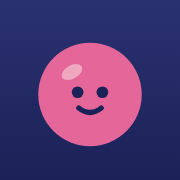
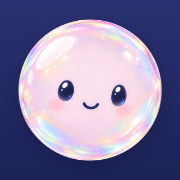
Meet the new Boop: iridescent bubble mascot across the site
- Hero Boop and closing Boop are the new bubble (leans toward the cursor,
  still squishes, jumps, talks and replays the arrival)
- Wordmarks, app icon, Lock Screen icon, favicon, touch icon, OG image and
  the four dawn/day/dusk/night icons regenerated with the bubble
- Bubble gets a soft pink fill behind the glass so it reads on navy
- Asset files renamed -v2 so image caches can't serve the old blob

Claude-Session: https://claude.ai/code/session_01JCJ9Cii79kSKS6b9oMPbWV

diff --git a/app/site/chrome.css b/app/site/chrome.css
@@ -4344,7 +4344,7 @@ button.tierCta, button.priceNavCta {
   margin: 0 auto 18px;
   width: 96px;
 }
-.finalMascot svg { width: 96px; height: 96px; animation: boopHop 2.8s cubic-bezier(.3,.7,.4,1.4) infinite; transform-origin: 50% 100%; filter: drop-shadow(0 12px 26px rgba(217, 120, 158, .45)); }
+.finalMascot .finalBoopImg { width: 104px; height: 104px; animation: boopHop 2.8s cubic-bezier(.3,.7,.4,1.4) infinite; transform-origin: 50% 100%; filter: drop-shadow(0 12px 26px rgba(217, 120, 158, .45)); }
 .finalBubble { background: #D9789E; }
 
 /* Closing sky: more colour behind Boop */
@@ -4379,17 +4379,19 @@ button.tierCta, button.priceNavCta {
   width: 100%;
   transform-origin: 50% 100%;
   animation: boopBounce 1.6s cubic-bezier(.3,.7,.4,1) infinite;
-  filter: drop-shadow(0 12px 18px rgba(229, 103, 154, .32));
+  filter: drop-shadow(0 14px 22px rgba(229, 103, 154, .30)) drop-shadow(0 0 18px rgba(155, 148, 194, .25));
   transition: transform .3s cubic-bezier(.3,.7,.4,1.5);
 }
-.boopBody svg { display: block; width: 100%; height: auto; overflow: visible; }
-.boopEyes { transform: translate(var(--ex, 0px), var(--ey, 0px)); transition: transform .12s linear; }
-.boopCheek { opacity: 0; transition: opacity .25s; }
+.boopImg {
+  display: block; width: 100%; height: auto;
+  transform: translate(var(--ex, 0px), var(--ey, 0px)) rotate(var(--tilt, 0deg));
+  transition: transform .18s linear;
+}
 .boopBuddy:hover .boopBody { animation: boopSquish .5s cubic-bezier(.3,.7,.4,1.5) both; }
-.boopBuddy:hover .boopCheek, .boopJump .boopCheek { opacity: .9; }
 .boopBody.boopJump { animation: boopJump .9s cubic-bezier(.3,.7,.4,1.4) both; }
 .boopBubble {
   position: relative;
+  z-index: 2;
   white-space: nowrap;
   font-family: var(--font-display);
   font-weight: 700;
@@ -4398,7 +4400,7 @@ button.tierCta, button.priceNavCta {
   background: #E5679A;
   padding: 6px 13px 7px;
   border-radius: 999px;
-  margin-bottom: 10px;
+  margin-bottom: 18px;
   box-shadow: 0 8px 20px rgba(229, 103, 154, .35);
   animation: bubbleIn .55s cubic-bezier(.3,.7,.4,1.5) both, bubbleBob 3.4s ease-in-out .6s infinite;
   transform-origin: 50% 100%;
@@ -4461,4 +4463,29 @@ button.tierCta, button.priceNavCta {
   .heroStage { padding-bottom: 150px; }
   .boopBuddy { right: auto; left: 50%; bottom: 0; width: 92px; margin-left: -46px; }
   .boopBubble { font-size: .9rem; }
+}
+
+/* Closing Boop's speech bubble */
+.finalBubble {
+  position: relative;
+  z-index: 2;
+  font-family: var(--font-display);
+  font-weight: 700;
+  font-size: 1.05rem;
+  color: #FFFFFF;
+  background: #D9789E;
+  padding: 6px 14px 7px;
+  border-radius: 999px;
+  margin-bottom: 16px;
+  box-shadow: 0 8px 20px rgba(217, 120, 158, .35);
+  animation: bubblePop 2.8s cubic-bezier(.3,.7,.4,1.4) infinite;
+  transform-origin: 50% 100%;
+}
+.finalBubble::after {
+  content: "";
+  position: absolute;
+  left: 50%; bottom: -5px; margin-left: -6px;
+  width: 12px; height: 12px;
+  background: inherit; border-radius: 2px;
+  transform: rotate(45deg);
 }

diff --git a/app/layout.tsx b/app/layout.tsx
@@ -65,7 +65,7 @@ export const metadata: Metadata = {
     locale: "en_US",
     images: [
       {
-        url: "/boopthere-og.png",
+        url: "/boopthere-og.png?v=2",
         width: 1200,
         height: 630,
         alt: "BoopThere - location reminders for iPhone",
@@ -76,14 +76,14 @@ export const metadata: Metadata = {
     card: "summary_large_image",
     title: "BoopThere | Boop! There it is. Location reminders for iPhone",
     description: DEFAULT_DESCRIPTION,
-    images: ["/boopthere-og.png"],
+    images: ["/boopthere-og.png?v=2"],
   },
   icons: {
     icon: [
-      { url: "/favicon.ico?v=6", sizes: "64x64" },
-      { url: "/favicon.png?v=6", sizes: "64x64", type: "image/png" },
+      { url: "/favicon.ico?v=7", sizes: "64x64" },
+      { url: "/favicon.png?v=7", sizes: "64x64", type: "image/png" },
     ],
-    apple: [{ url: "/apple-touch-icon.png?v=6", sizes: "180x180", type: "image/png" }],
+    apple: [{ url: "/apple-touch-icon.png?v=7", sizes: "180x180", type: "image/png" }],
   },
   category: "Productivity",
   appleWebApp: {
@@ -104,8 +104,8 @@ const organizationJsonLd = {
   alternateName: ["Boop There", "Near"],
   legalName: "Rise-X, Inc.",
   url: SITE_URL,
-  logo: `${SITE_URL}/assets/brand/boop/boop-app-icon-1024.png`,
-  image: `${SITE_URL}/boopthere-og.png`,
+  logo: `${SITE_URL}/assets/brand/boop/boop-app-icon-1024-v2.png`,
+  image: `${SITE_URL}/boopthere-og.png?v=2`,
   email: "hello@nearesttask.com",
   description: "Location reminders for iPhone. Boop! There it is.",
   brand: {
@@ -126,7 +126,7 @@ const mobileAppJsonLd = {
   /* Telling search engines the app can be installed at a URL that 404s is
      worse than saying nothing. These come back when the listing is live. */
   ...(APP_IS_LIVE ? { downloadUrl: APP_STORE_URL, installUrl: APP_STORE_URL } : {}),
-  image: `${SITE_URL}/boopthere-og.png`,
+  image: `${SITE_URL}/boopthere-og.png?v=2`,
   isAccessibleForFree: true,
   description: DEFAULT_DESCRIPTION,
   publisher: {
@@ -192,9 +192,9 @@ export default function RootLayout({
   return (
     <html lang="en" className={`${dmSans.variable} ${fredoka.variable}`}>
       <head>
-        <link rel="icon" href="/favicon.ico?v=6" sizes="64x64" />
-        <link rel="icon" href="/favicon.png?v=6" type="image/png" sizes="64x64" />
-        <link rel="apple-touch-icon" href="/apple-touch-icon.png?v=6" sizes="180x180" />
+        <link rel="icon" href="/favicon.ico?v=7" sizes="64x64" />
+        <link rel="icon" href="/favicon.png?v=7" type="image/png" sizes="64x64" />
+        <link rel="apple-touch-icon" href="/apple-touch-icon.png?v=7" sizes="180x180" />
         <meta name="theme-color" content="#FAF6EF" />
         <script
           type="application/ld+json"

diff --git a/app/site/chrome.tsx b/app/site/chrome.tsx
@@ -11,8 +11,8 @@ import { useEffect, useRef, useState, useSyncExternalStore, type FormEvent } fro
 import { APP_IS_LIVE, APP_STORE_URL, NOTIFY_EVENT, openNotify } from "./launch"
 
 export { APP_STORE_URL }
-export const BRAND_ICON = "/assets/brand/boop/boop-app-icon-256.png"
-export const BRAND_WORDMARK = "/assets/brand/boop/boopthere-wordmark.png"
+export const BRAND_ICON = "/assets/brand/boop/boop-app-icon-256-v2.png"
+export const BRAND_WORDMARK = "/assets/brand/boop/boopthere-wordmark-v2.png"
 
 export function useReveal() {
   useEffect(() => {
@@ -241,7 +241,7 @@ export function TopNav({ home = false }: { home?: boolean }) {
     <header className={`nav ${lifted ? "navLifted" : ""}`}>
       <div className="navInner">
         <Link className="brand" href={home ? "#top" : "/"} aria-label="BoopThere, home">
-          <Image src={BRAND_WORDMARK} alt="BoopThere" className="brandLogo" width={1074} height={202} priority quality={100} />
+          <Image src={BRAND_WORDMARK} alt="BoopThere" className="brandLogo" width={1072} height={216} priority quality={100} />
         </Link>
         <nav className="navLinks" aria-label="Primary">
           <a className="navLink hideOnMobile" href={at("#how-it-works")}>How it works</a>
@@ -284,7 +284,7 @@ export function FinalCTA() {
       <div className="reveal finalInner">
         <div className="finalMascot" aria-hidden="true">
           <span className="finalBubble">Boop!</span>
-          <svg viewBox="0 0 160 160" aria-hidden="true"><circle cx="80" cy="84" r="58" fill="#E5679A" /><ellipse cx="60" cy="58" rx="13" ry="8" fill="#FAF6EF" opacity=".5" transform="rotate(-30 60 58)" /><circle cx="66" cy="82" r="6.5" fill="#1B2257" /><circle cx="94" cy="82" r="6.5" fill="#1B2257" /><path d="M68 100 Q80 109 92 100" stroke="#1B2257" strokeWidth="5.5" fill="none" strokeLinecap="round" /></svg>
+<Image src="/assets/brand/boop/boop-256.png" alt="" width={96} height={96} className="finalBoopImg" />
         </div>
         <div className={`finalArrival ${inView ? "finalArrivalIn" : ""}`} aria-hidden="true">
           <span className="finalArrivalRing" />
@@ -326,7 +326,7 @@ export function SiteFooter() {
     <footer className="footer">
       <div className="footerTop">
         <div className="footerBrand">
-          <Image src="/assets/brand/boop/boopthere-wordmark-cream.png" alt="BoopThere" className="footerLogo" width={1074} height={202} />
+          <Image src="/assets/brand/boop/boopthere-wordmark-cream-v2.png" alt="BoopThere" className="footerLogo" width={1072} height={216} />
           <p className="footerTag">Boop! There it is.</p>
         </div>
         <nav className="footerNav" aria-label="Footer">

diff --git a/app/HomePageClient.tsx b/app/HomePageClient.tsx
@@ -178,8 +178,10 @@ function Hero() {
         const dy = posRef.current.y + hr.top - (br.top + br.height / 2)
         const d = Math.hypot(dx, dy) || 1
         const k = Math.min(1, d / 220)
-        b.style.setProperty("--ex", `${(dx / d) * 4.5 * k}px`)
-        b.style.setProperty("--ey", `${(dy / d) * 4 * k}px`)
+        /* He leans toward the cursor. */
+        b.style.setProperty("--ex", `${(dx / d) * 7 * k}px`)
+        b.style.setProperty("--ey", `${(dy / d) * 5 * k}px`)
+        b.style.setProperty("--tilt", `${(dx / d) * 9 * k}deg`)
       }
     })
   }
@@ -227,8 +229,8 @@ function Hero() {
 }
 
 /* ── Boop, live ─────────────────────────────────────────────────────
-   Sits on the arrival notification. Eyes follow the cursor (set by the
-   hero's mousemove), he squishes on hover, and a tap makes him jump, say
+   Bounces beside the phone. Leans toward the cursor (set by the hero's
+   mousemove), he squishes on hover, and a tap makes him jump, say
    something, and replay the arrival. A real button, so it works by
    keyboard too. */
 
@@ -262,17 +264,15 @@ const BoopBuddy = forwardRef<HTMLButtonElement, { onBoop: () => void }>(function
     >
       <span className="boopBubble" key={`b${hops}`}>{hops === 0 ? "Tap me!" : BOOP_LINES[line]}</span>
       <span className={`boopBody ${hops > 0 ? "boopJump" : ""}`} key={`j${hops}`}>
-        <svg viewBox="0 0 160 160" aria-hidden="true">
-          <circle cx="80" cy="84" r="58" fill="#E5679A" />
-          <ellipse cx="60" cy="58" rx="13" ry="8" fill="#FAF6EF" opacity=".5" transform="rotate(-30 60 58)" />
-          <g className="boopEyes">
-            <circle cx="66" cy="82" r="6.5" fill="#1B2257" />
-            <circle cx="94" cy="82" r="6.5" fill="#1B2257" />
-          </g>
-          <ellipse className="boopCheek" cx="52" cy="98" rx="7" ry="4" fill="#F59BBE" />
-          <ellipse className="boopCheek" cx="108" cy="98" rx="7" ry="4" fill="#F59BBE" />
-          <path className="boopMouth" d="M68 100 Q80 109 92 100" stroke="#1B2257" strokeWidth="5.5" fill="none" strokeLinecap="round" />
-        </svg>
+        <Image
+          src="/assets/brand/boop/boop-512.png"
+          alt=""
+          width={512}
+          height={512}
+          className="boopImg"
+          sizes="(max-width: 860px) 92px, 124px"
+          priority
+        />
       </span>
       <span className="boopShadow" aria-hidden="true" />
     </button>

diff --git a/app/pricing/page.tsx b/app/pricing/page.tsx
@@ -8,7 +8,7 @@ import Link from "next/link"
 import { AppShot, DownloadCta } from "../site/chrome"
 import { featuresFor } from "../site/features"
 
-const BRAND_WORDMARK = "/assets/brand/boop/boopthere-wordmark.png"
+const BRAND_WORDMARK = "/assets/brand/boop/boopthere-wordmark-v2.png"
 
 type Billing = "annual" | "monthly"
 
@@ -48,7 +48,7 @@ export default function PricingPage() {
         <nav className="priceNav">
           <div className="priceNavInner">
             <Link href="/" aria-label="BoopThere, home">
-              <Image src={BRAND_WORDMARK} alt="BoopThere" width={1074} height={202} className="priceNavLogo" />
+              <Image src={BRAND_WORDMARK} alt="BoopThere" width={1072} height={216} className="priceNavLogo" />
             </Link>
             <div className="priceNavLinks">
               <Link href="/#how-it-works" className="priceNavLink">How it works</Link>

diff --git a/app/features/page.tsx b/app/features/page.tsx
@@ -102,10 +102,10 @@ const mealNotes = [
 ]
 
 const ICON_VARIANTS = [
-  { name: "Dawn", src: "/assets/brand/boop/boop-icon-dawn-1024.png" },
-  { name: "Day", src: "/assets/brand/boop/boop-icon-day-1024.png" },
-  { name: "Dusk", src: "/assets/brand/boop/boop-icon-dusk-1024.png" },
-  { name: "Night", src: "/assets/brand/boop/boop-icon-night-1024.png" },
+  { name: "Dawn", src: "/assets/brand/boop/boop-icon-dawn-1024-v2.png" },
+  { name: "Day", src: "/assets/brand/boop/boop-icon-day-1024-v2.png" },
+  { name: "Dusk", src: "/assets/brand/boop/boop-icon-dusk-1024-v2.png" },
+  { name: "Night", src: "/assets/brand/boop/boop-icon-night-1024-v2.png" },
 ] as const
 
 /* The arrival this page's own example produces. The capture section hears

diff --git a/app/features/layout.tsx b/app/features/layout.tsx
@@ -15,7 +15,7 @@ export const metadata: Metadata = {
     type: "website",
     images: [
       {
-        url: "/boopthere-og.png",
+        url: "/boopthere-og.png?v=2",
         width: 1200,
         height: 630,
         alt: "Everything BoopThere does - location reminders, shared lists and Meal Plan",
@@ -27,7 +27,7 @@ export const metadata: Metadata = {
     title: "Everything BoopThere does | BoopThere",
     description:
       "Capture, placement, arrival - plus shared household lists, Meal Plan, Apple Watch and Siri. Everything BoopThere does, and nothing that asks you to organize it.",
-    images: ["/boopthere-og.png"],
+    images: ["/boopthere-og.png?v=2"],
   },
 }
 

diff --git a/app/pricing/layout.tsx b/app/pricing/layout.tsx
@@ -15,7 +15,7 @@ export const metadata: Metadata = {
     type: "website",
     images: [
       {
-        url: "/boopthere-og.png",
+        url: "/boopthere-og.png?v=2",
         width: 1200,
         height: 630,
         alt: "BoopThere pricing for Free and Pro plans",
@@ -27,7 +27,7 @@ export const metadata: Metadata = {
     title: "Pricing | BoopThere",
     description:
       "BoopThere's location reminders are free, always, and so is the grocery list. Pro adds unlimited AI meal plans, predictive restocks, and goal breakdowns. $12.99 a month or $109 a year.",
-    images: ["/boopthere-og.png"],
+    images: ["/boopthere-og.png?v=2"],
   },
 }
 

diff --git a/app/privacy/page.tsx b/app/privacy/page.tsx
@@ -5,7 +5,7 @@ import "./privacy.css"
 import Link from "next/link"
 import Image from "next/image"
 
-const BRAND_WORDMARK = "/assets/brand/boop/boopthere-wordmark.png"
+const BRAND_WORDMARK = "/assets/brand/boop/boopthere-wordmark-v2.png"
 
 export default function PrivacyPage() {
   return (
@@ -15,8 +15,8 @@ export default function PrivacyPage() {
           <Image
             src={BRAND_WORDMARK}
             alt="BoopThere"
-            width={1074}
-            height={202}
+            width={1072}
+            height={216}
             className="legalLogoFull"
           />
         </Link>

diff --git a/app/support/page.tsx b/app/support/page.tsx
@@ -5,7 +5,7 @@ import "./support.css"
 import Link from "next/link"
 import Image from "next/image"
 
-const BRAND_WORDMARK = "/assets/brand/boop/boopthere-wordmark.png"
+const BRAND_WORDMARK = "/assets/brand/boop/boopthere-wordmark-v2.png"
 
 export default function SupportPage() {
   return (
@@ -15,8 +15,8 @@ export default function SupportPage() {
           <Image
             src={BRAND_WORDMARK}
             alt="BoopThere"
-            width={1074}
-            height={202}
+            width={1072}
+            height={216}
             className="legalLogoFull"
           />
         </Link>

diff --git a/app/terms/page.tsx b/app/terms/page.tsx
@@ -5,7 +5,7 @@ import "./terms.css"
 import Link from "next/link"
 import Image from "next/image"
 
-const BRAND_WORDMARK = "/assets/brand/boop/boopthere-wordmark.png"
+const BRAND_WORDMARK = "/assets/brand/boop/boopthere-wordmark-v2.png"
 
 export default function TermsPage() {
   return (
@@ -15,8 +15,8 @@ export default function TermsPage() {
           <Image
             src={BRAND_WORDMARK}
             alt="BoopThere"
-            width={1074}
-            height={202}
+            width={1072}
+            height={216}
             className="legalLogoFull"
           />
         </Link>

diff --git a/app/join/[code]/page.tsx b/app/join/[code]/page.tsx
@@ -5,7 +5,7 @@ import Image from "next/image"
 import { useParams } from "next/navigation"
 
 import { APP_IS_LIVE, APP_STORE_URL } from "../../site/launch"
-const BRAND_ICON = "/assets/brand/boop/boop-app-icon-256.png"
+const BRAND_ICON = "/assets/brand/boop/boop-app-icon-256-v2.png"
 
 export default function JoinPage() {
   const params = useParams()
